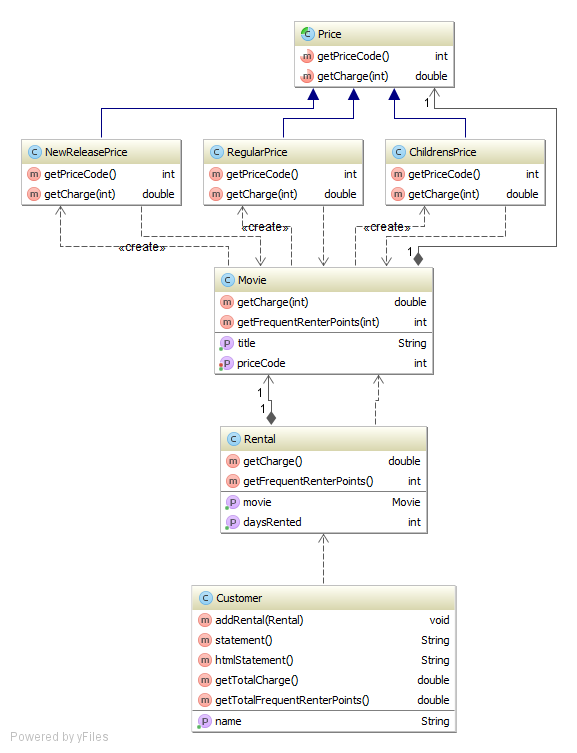
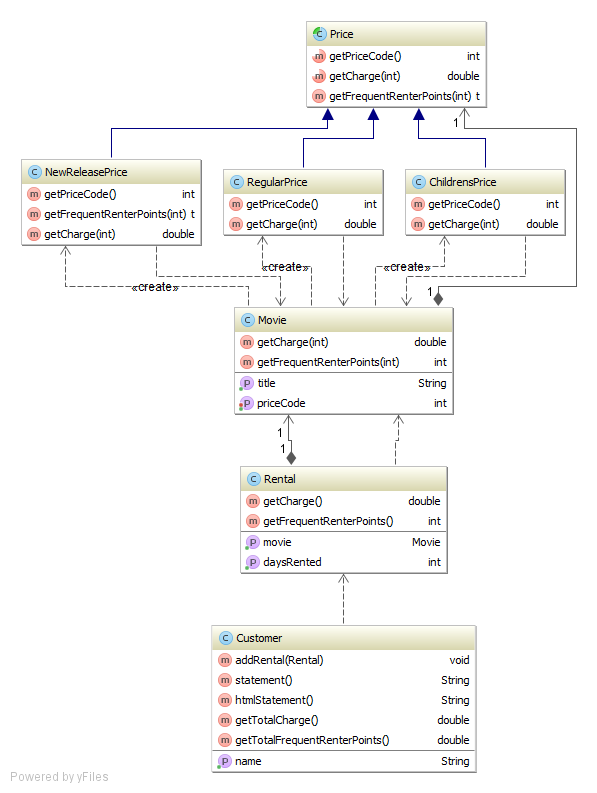
Step 6.7: Replace Conditional with Polymorphism: Extract method Price.getFrequentRenterPoints(int daysRented).

Changed region(s): [[0.0312, 0.0305, 0.9671, 0.9774], [0.0312, 0.9774, 0.1872, 1.0]]

diff --git a/src/Price.java b/src/Price.java
@@ -2,6 +2,10 @@ abstract class Price {
     abstract int getPriceCode();
 
     abstract double getCharge(int daysRented);
+
+    int getFrequentRenterPoints(int daysRented) {
+        return 1;
+    }
 }
 
 class RegularPrice extends Price {
@@ -37,6 +41,12 @@ class NewReleasePrice extends Price {
     @Override
     int getPriceCode() {
         return Movie.NEW_RELEASE;
+    }
+
+    @Override
+    int getFrequentRenterPoints(int daysRented) {
+        // add bonus for a two day new release rental
+        return daysRented > 1 ? 2 : 1;
     }
 
     double getCharge(int daysRented) {

diff --git a/src/Movie.java b/src/Movie.java
@@ -39,11 +39,6 @@ public class Movie {
     }
 
     int getFrequentRenterPoints(int daysRented) {
-        int frequentRenterPoints = 0;
-        frequentRenterPoints++;
-        // add bonus for a two day new release rental
-        if ((getPriceCode() == NEW_RELEASE) && daysRented > 1)
-            frequentRenterPoints++;
-        return frequentRenterPoints;
+        return price.getFrequentRenterPoints(daysRented);
     }
 }
